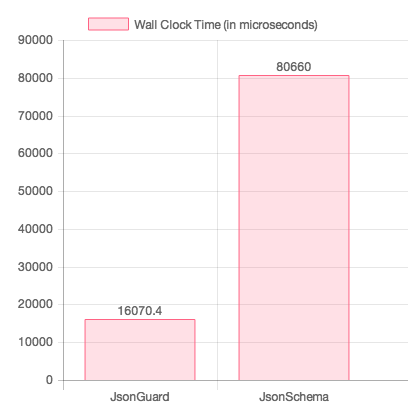
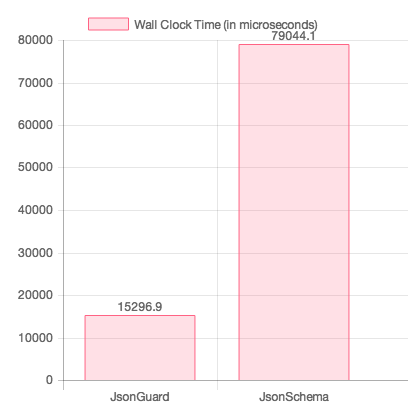
force update reports

diff --git a/reports/validating-the-meta-schema.md b/reports/validating-the-meta-schema.md
@@ -10,8 +10,8 @@ This test checks the performance of validating the meta schema which defines JSO
 
 | Validator | Wall Clock Time (in microseconds) |
 |-----------|:---------------------------------:|
-| JsonGuard | 16070.4 |
-| JsonSchema | 80660 |
+| JsonGuard | 15296.9 |
+| JsonSchema | 79044.1 |
 
 ## Memory usage
 

diff --git a/reports/validating-composer.md b/reports/validating-composer.md
@@ -10,8 +10,8 @@ This test checks the performance of validating a composer.json file against the 
 
 | Validator | Wall Clock Time (in microseconds) |
 |-----------|:---------------------------------:|
-| JsonGuard | 3739.3 |
-| JsonSchema | 9492.9 |
+| JsonGuard | 3883.4 |
+| JsonSchema | 9632.2 |
 
 ## Memory usage
 
